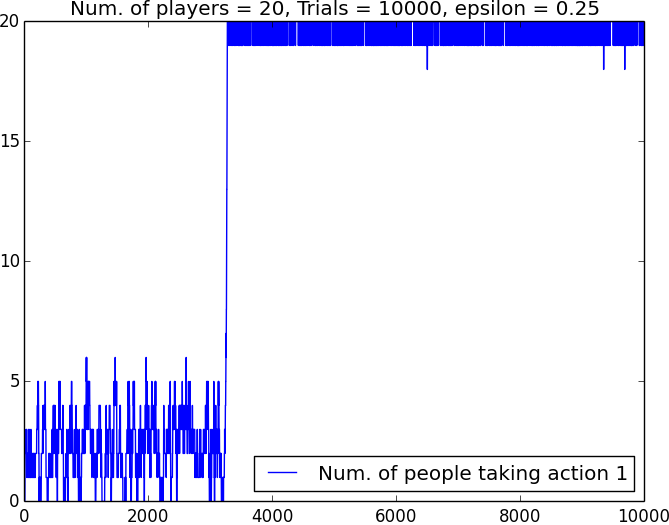
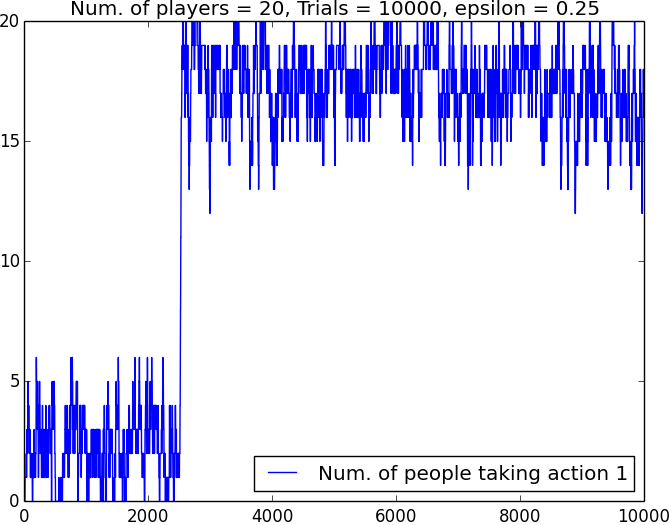
a small correction

Changed region(s): [[0.2691, 0.0305, 0.9865, 0.3962], [0.0299, 0.6705, 0.3587, 0.9752], [0.3288, 0.4876, 0.3587, 0.6095]]

diff --git a/KMR_statdist.py b/KMR_statdist.py
@@ -46,8 +46,8 @@ def genP(N, pay_0, epsilon):
 
         else:
         
-            P[n, n+1] += n/N * (1 - epsilon * 0.5)
-            P[n, n-1] += (1 - n/N) * epsilon * 0.5
+            P[n, n+1] += (1 - n/N) * (1 - epsilon * 0.5)
+            P[n, n-1] += n/N * epsilon * 0.5
 
 
         P[n,n] = 1 - sum(P[n])

diff --git a/KMR.py b/KMR.py
@@ -44,8 +44,8 @@ for n in range(1, N):
 
     else:
         
-        P[n, n+1] += n/N * (1 - epsilon * 0.5)
-        P[n, n-1] += (1 - n/N) * epsilon * 0.5
+        P[n, n+1] += (1 - n/N) * (1 - epsilon * 0.5)
+        P[n, n-1] += n/N * epsilon * 0.5
 
 
     P[n,n] = 1 - sum(P[n])
